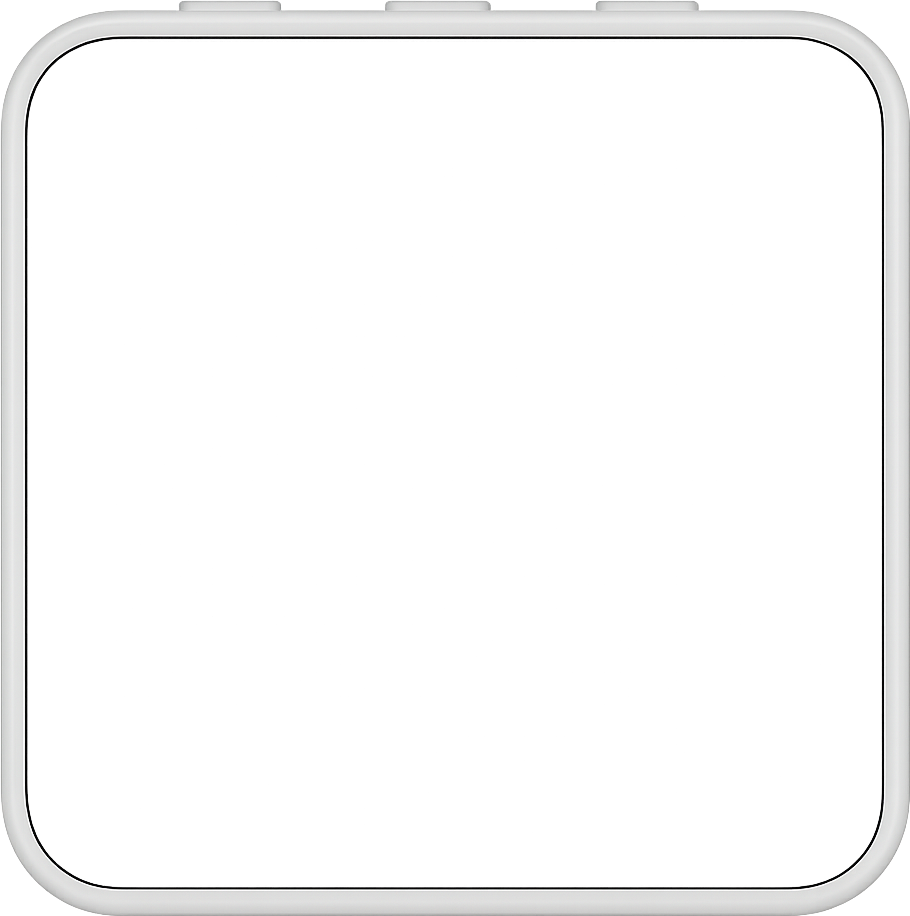
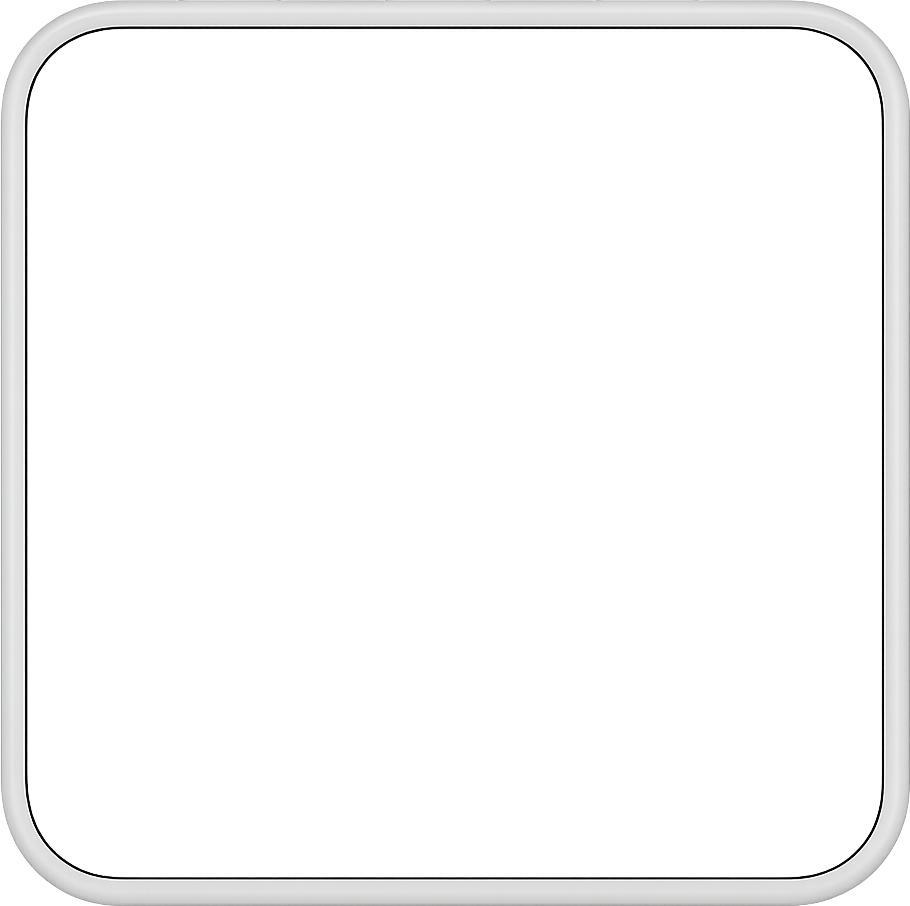
Fit the 2.16's frame and resize from the window's corner
The 2.16's photo, keys and labels line up with the board at any zoom:
the keys moved to where the board has them, their labels sit on the
white frame (photo rim), and the lit area takes the panel's rounded
corners (glass screen_r).

Resizing keeps the window's opposite corner in place. It kept a device
corner before, and while the six buttons hold the window's width the
whole window slid sideways at the start of a drag. The corner that
resizes is larger and sits on the body's rounding, and a key in it wins.

Changed region(s): [[0.0, 0.0, 1.0, 0.1236], [0.1538, 0.9581, 0.8615, 0.989], [0.9231, 0.9272, 0.9538, 0.9581]]

diff --git a/tools/espmirror.py b/tools/espmirror.py
@@ -82,20 +82,22 @@ ROLES = {1: "talk", 2: "aux", 3: "power", 4: "speaker"}
 #   body       shape="rect": w, h; x, y the active area's top left; r the corner radius
 #              shape="round": d the diameter, the active area centred
 #              finish: a name in FINISHES (the colours of the body and its buttons)
-#   glass      border: the cover glass's dark border around the active area; r its corner radius
+#   glass      border: the cover glass's dark border around the active area; r its corner radius;
+#              screen_r optional: the lit area's own corner radius, where the panel hides its corner pixels
 #   led        optional: x, y its centre, d its diameter, colour (r, g, b)
 #   studs      optional: d the diameter of the corner holes, at their centres (x, y)
 #   photo      optional: file, a front-on picture with the background cut out (PNG with alpha) in the
 #              --devices directory, stretched to the body's w x h (d x d); screen the active area's
 #              x, y, w, h in its pixels. The live screen goes there instead of at body x, y.
+#              rim optional: the body's own frame in its pixels, where the buttons' labels go
 # A board whose w x h lies the other way from the profile's active area gets the profile turned a quarter
 # counter-clockwise (its bottom edge on the right). The buttons are the board's own, from its hints.
 DEVICES = [('2.16',
   {'screen_mm': 38.99,
    'body': {'shape': 'rect', 'w': 44.6, 'h': 44.6, 'x': 2.8, 'y': 2.8, 'r': 5.5, 'finish': 'white'},
-   'glass': {'border': 2.15, 'r': 4.5},
-   'photo': {'file': 'waveshare-2.16.png', 'screen': (54, 54, 801, 807)},
-   'keys': [('key3', 1, 'top', 12.3, 5.3), ('pwr', 3, 'top', 22.3, 5.3), ('boot', 2, 'top', 32.3, 5.3)],
+   'glass': {'border': 2.15, 'r': 4.5, 'screen_r': 6.5},
+   'photo': {'file': 'waveshare-2.16.png', 'screen': (54, 44, 801, 807), 'rim': 26},
+   'keys': [('key3', 1, 'top', 11.2, 5.3), ('pwr', 3, 'top', 21.4, 5.3), ('boot', 2, 'top', 31.7, 5.3)],
    'hold': True}),
  ('1.54G',
   {'screen_mm': 27.8,
@@ -1202,7 +1204,7 @@ def run_window(targets, scale, on_top, wall, devices_dir, log_file=None, sound=F
     from PySide6.QtWidgets import QApplication, QMenu, QMenuBar, QToolTip, QWidget
 
     BUTTON = 34                      # talk, listen, record, screenshot, close
-    CORNER = 14                      # points from a corner of the devices' area that resize the window
+    CORNER = 24                      # points from a corner of the devices' area that resize the window
     GAP = 28                         # between boards side by side
     MIN_GLASS = 120                  # points: the screen is never drawn narrower, a tiny device is no use
     KEY_MM = 6.0                     # a button: .75 of this along the edge, .2 out of it
@@ -1354,8 +1356,9 @@ def run_window(targets, scale, on_top, wall, devices_dir, log_file=None, sound=F
         g = glass["border"] * s
         grect = hole or (ax - g, ay - g, aw + 2 * g, ah + 2 * g)
         glass_r = (aw + 2 * g) / 2 if look["round"] else glass["r"] * s
-        active_r = aw / 2 if look["round"] else 0
-        keys = place_keys(look, brect, body_r, disc, (ax, ay, aw, ah), grect, s)
+        active_r = aw / 2 if look["round"] else glass.get("screen_r", 0) * s
+        rim = prof['photo']['rim'] * fy if photo and prof['photo'].get('rim') else None
+        keys = place_keys(look, brect, body_r, disc, (ax, ay, aw, ah), grect, s, rim)
         led = None
         if prof.get("led"):
             o = prof["led"]
@@ -1372,7 +1375,7 @@ def run_window(targets, scale, on_top, wall, devices_dir, log_file=None, sound=F
                      max([r.right() - bx - bw for r in reach] + [0]), max([r.bottom() - by - bh for r in reach] + [0]))
         return L
 
-    def place_keys(look, brect, body_r, disc, active, grect, s):
+    def place_keys(look, brect, body_r, disc, active, grect, s, frame=None):
         """Each button on the body's edge nearest its hint, at the hint's place along it (on the rim, at its
         angle, for a disc); buttons without a hint along the bottom."""
         bx, by, bw, bh = brect
@@ -1457,6 +1460,9 @@ def run_window(targets, scale, on_top, wall, devices_dir, log_file=None, sound=F
                                  dx=math.sin(a), dy=-math.cos(a), rim=body_r - grect[2] / 2,
                                  border=(grect[2] - aw) / 2, role=b["role"],
                                  label=str(b.get("name") or ROLES.get(b["role"], "")), w=T, h=Lk))
+        for k in keys if frame is not None else ():
+            if not k.get("face"):
+                k.update(rim=frame, border=0)
         for k in keys:            # the label beside it, reading along the edge: on the body's rim, or when that is
             rim_w, border = max(0.0, k["rim"]), max(0.0, k["border"])     # too thin, on the glass's dark border
             glassy = rim_w * .6 < 6.5 and border > rim_w
@@ -1772,7 +1778,7 @@ def run_window(targets, scale, on_top, wall, devices_dir, log_file=None, sound=F
             right, bottom = max(b[0] + b[2] for b in bodies), max(b[1] + b[3] for b in bodies)
             self.lay = dict(buttons={name: (x0 + i * (BUTTON + 6), 4, BUTTON, BUTTON)
                                      for i, name in enumerate(("move", "talk", "listen", "rec", "shot", "close"))},
-                            corners=[((sx, sy), (left if sx < 0 else right, top if sy < 0 else bottom))
+                            corners=[((sx, sy), self.corner_at(sx, sy, left, top, right, bottom))
                                      for sx in (-1, 1) for sy in (-1, 1)])
             return self.lay
 
@@ -1975,19 +1981,28 @@ def run_window(targets, scale, on_top, wall, devices_dir, log_file=None, sound=F
             app.setWindowIcon(QIcon(pm))
 
         # -- mouse ------------------------------------------------------------------------------------------
+        def corner_at(self, sx, sy, left, top, right, bottom):
+            """Where a drawn corner is: on the rounding of the device that sits furthest that way, not on the
+            empty point of its bounding box."""
+            x, y = left if sx < 0 else right, top if sy < 0 else bottom
+            d = max(self.devs, key=lambda d: sx * (d.L["body"][0] + d.L["body"][2] * (sx > 0))
+                    + sy * (d.L["body"][1] + d.L["body"][3] * (sy > 0)))
+            inset = d.L["body_r"] * (1 - math.sqrt(.5))
+            return x - sx * inset, y - sy * inset
+
         def where(self, pos):
             lay = self.arrange()
             x, y = pos.x(), pos.y()
             for name, (bx, by, bw, bh) in lay["buttons"].items():
                 if (x - bx - bw / 2) ** 2 + (y - by - bh / 2) ** 2 <= (bw / 2) ** 2:
                     return name, None, None
-            for side, (cx, cy) in lay["corners"]:                # any corner resizes, as a window's does
-                if abs(x - cx) <= CORNER and abs(y - cy) <= CORNER:
-                    return "corner", side, None
-            for d in self.devs:
+            for d in self.devs:                                  # a key wins over the corner it sits in
                 for k in d.L["keys"]:
                     if key_hit(k, pos):
                         return "key", k["role"], d
+            for side, (cx, cy) in lay["corners"]:                # any corner resizes, as a window's does
+                if abs(x - cx) <= CORNER and abs(y - cy) <= CORNER:
+                    return "corner", side, None
             for d in self.devs:
                 if on_glass(d.L, pos):
                     return "glass", None, d
@@ -2046,9 +2061,11 @@ def run_window(targets, scale, on_top, wall, devices_dir, log_file=None, sound=F
             elif what == "corner":
                 at, corners = e.globalPosition(), dict(self.arrange()["corners"])
                 (x0, y0), (x1, y1) = corners[(-1, -1)], corners[(1, 1)]
-                ox, oy = corners[(-role[0], -role[1])]       # the opposite corner stays where it is on the desk
+                # The window's opposite corner stays where it is on the desk, not the device's: while the buttons
+                # hold the window's width, a device corner would slide the whole window sideways.
                 self.grip = dict(side=role, x0=at.x(), y0=at.y(), zoom=self.zoom, w=x1 - x0, h=y1 - y0,
-                                 anchor=(self.x() + ox, self.y() + oy))
+                                 anchor=(self.x() + (self.width() if role[0] < 0 else 0),
+                                         self.y() + (self.height() if role[1] < 0 else 0)))
             elif what in ("move", "body", "glass"):
                 self.start_move(e)
 
@@ -2065,8 +2082,8 @@ def run_window(targets, scale, on_top, wall, devices_dir, log_file=None, sound=F
                 dx, dy = sx * (at.x() - g["x0"]), sy * (at.y() - g["y0"])
                 grow = 1 + (dx * g["w"] + dy * g["h"]) / (g["w"] ** 2 + g["h"] ** 2)
                 self.apply_zoom(g["zoom"] * grow, say=False)
-                ox, oy = dict(self.arrange()["corners"])[(-sx, -sy)]
-                self.move(round(g["anchor"][0] - ox), round(g["anchor"][1] - oy))
+                self.move(g["anchor"][0] - (self.width() if sx < 0 else 0),
+                          g["anchor"][1] - (self.height() if sy < 0 else 0))
             elif self.drag_from is not None:
                 self.move(e.globalPosition().toPoint() - self.drag_from)
             elif not e.buttons():
